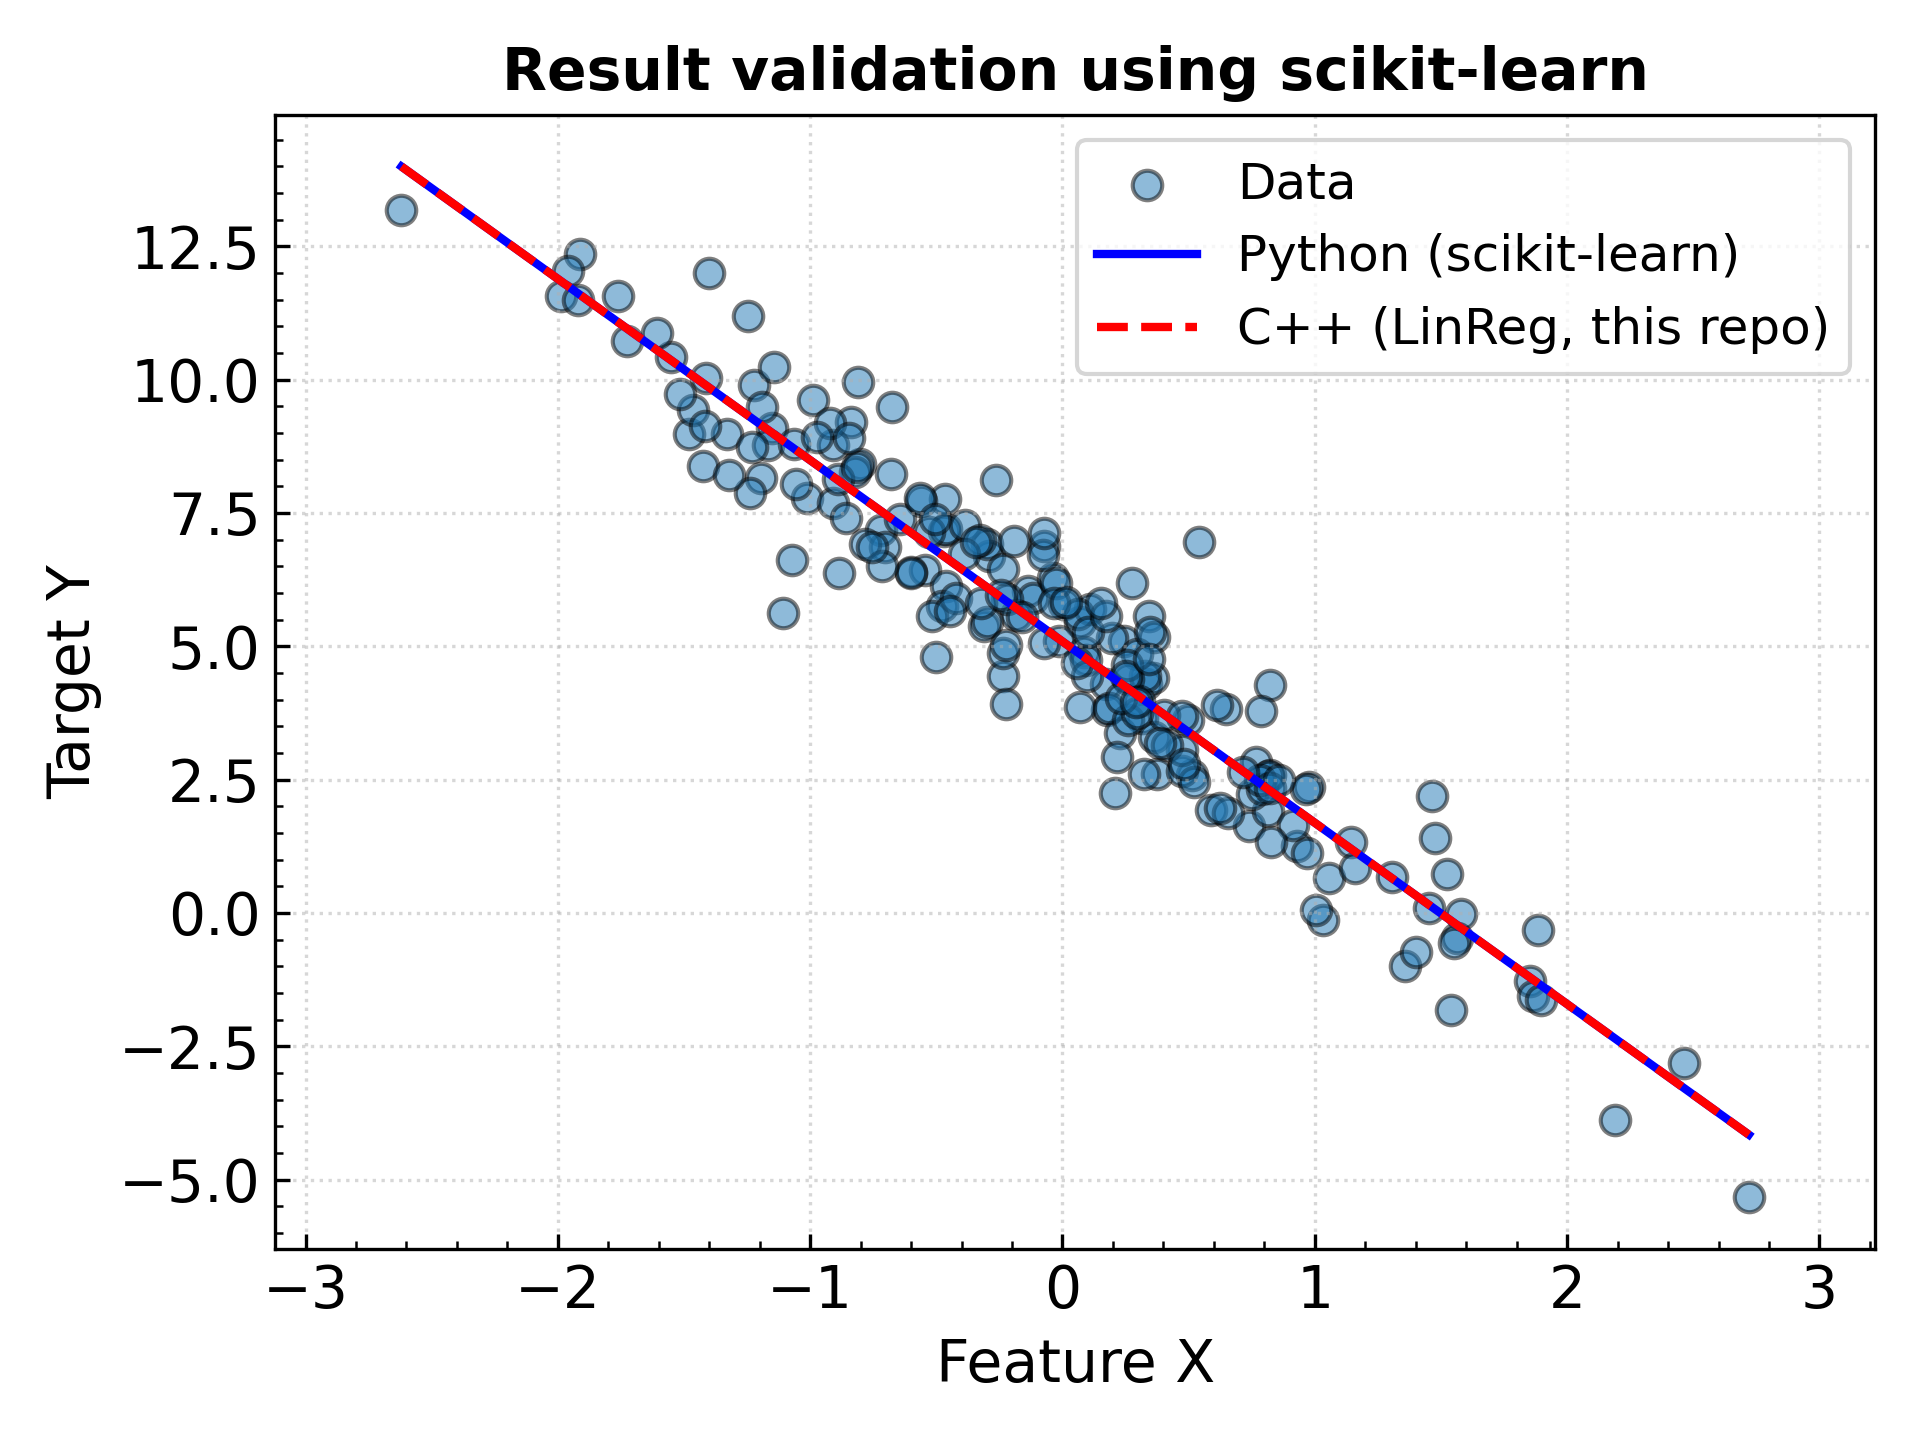
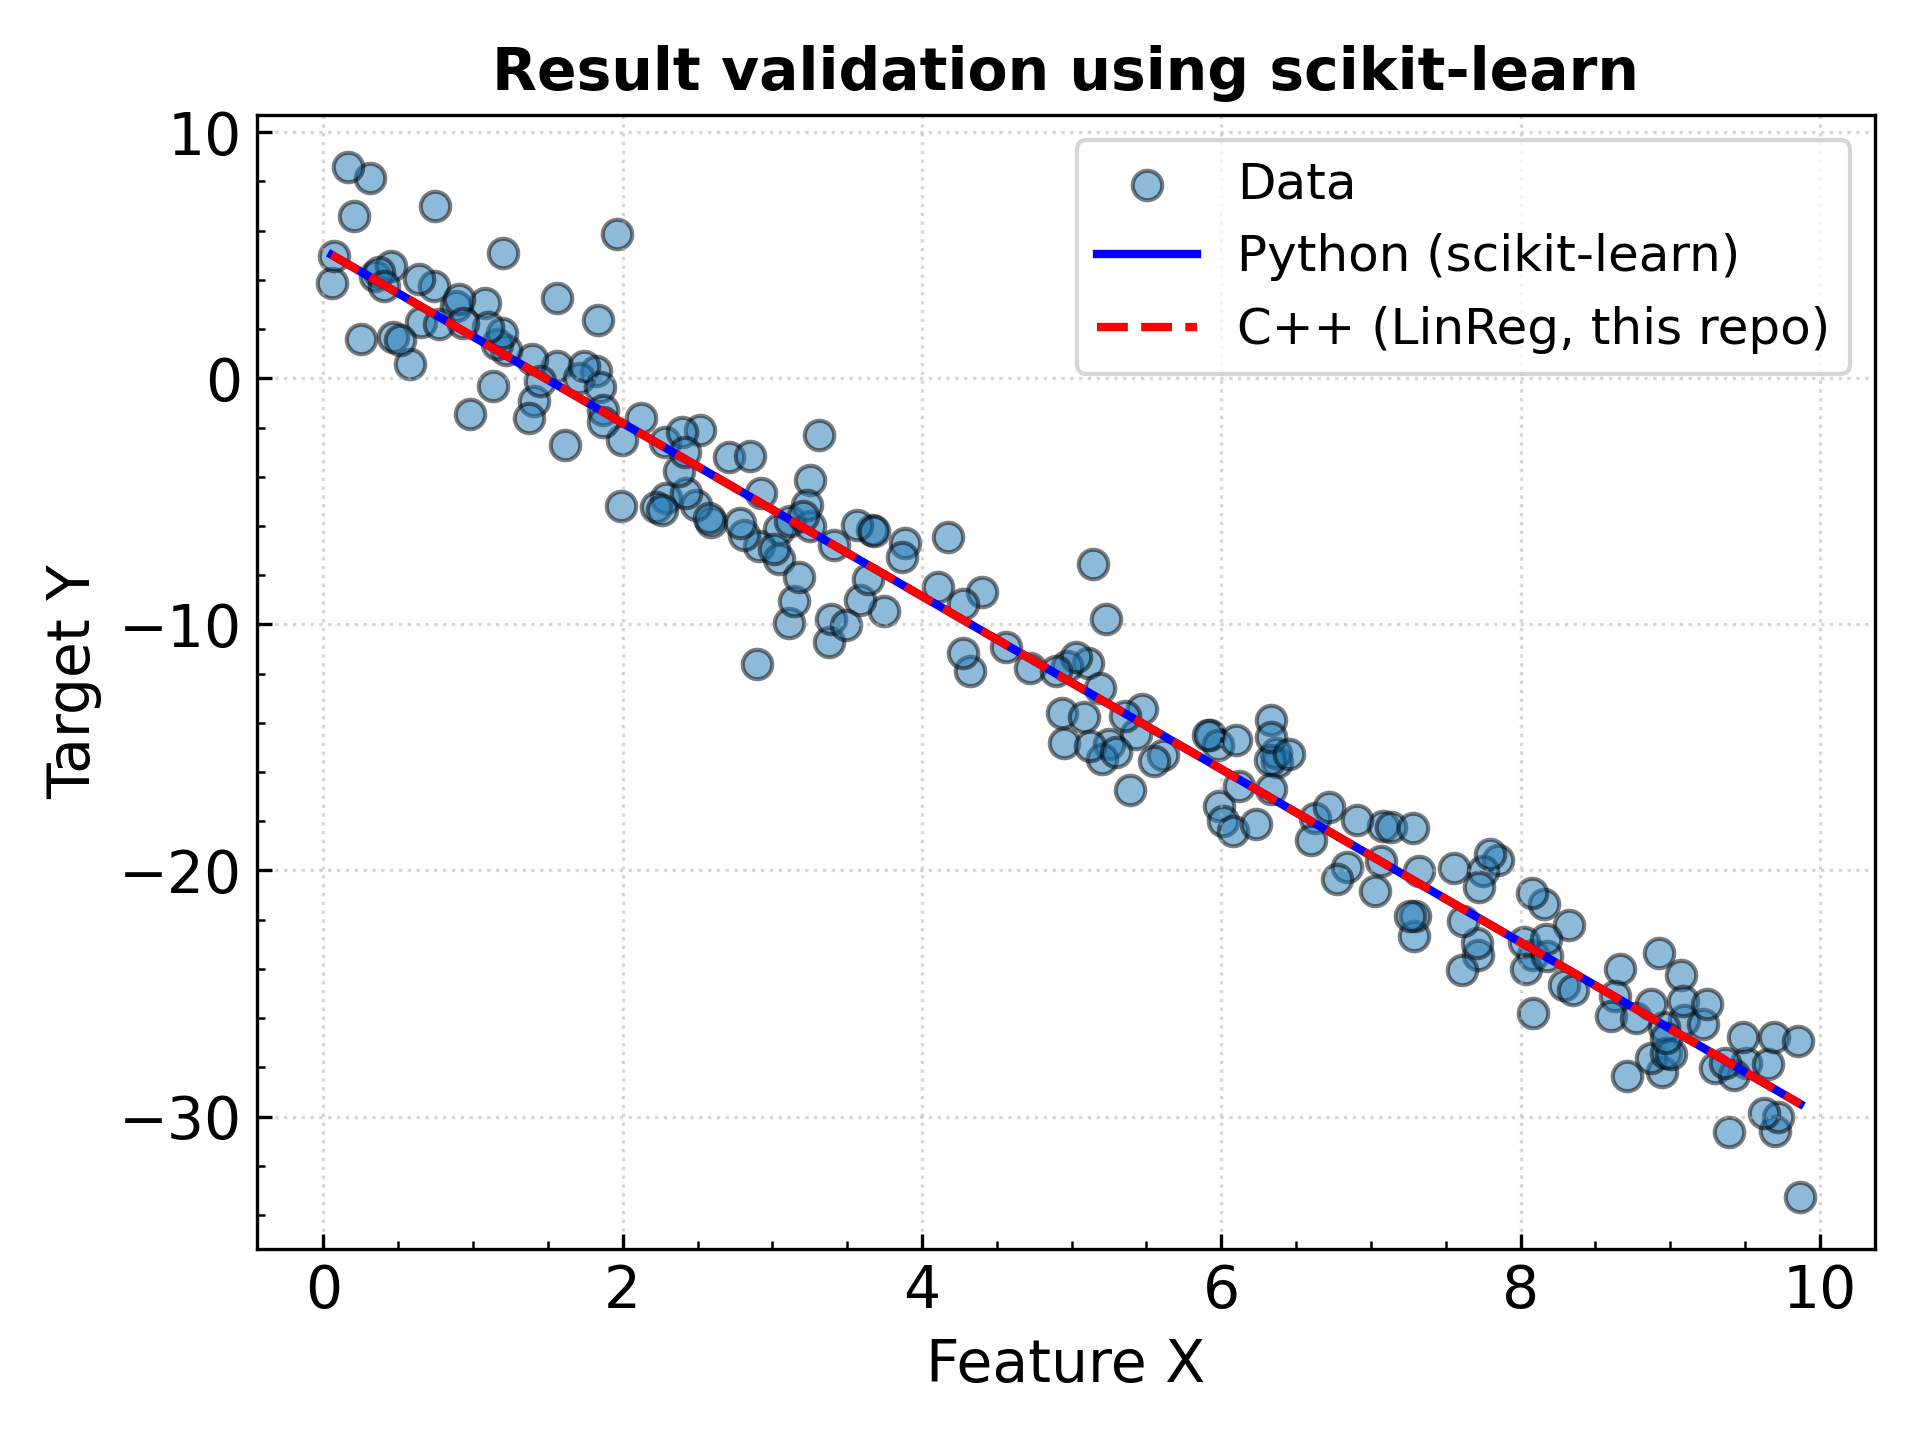
uniform X

diff --git a/validate/gen_1X_solve.py b/validate/gen_1X_solve.py
@@ -13,10 +13,11 @@ true_beta = [-3.5]  # Coefficients for X1, X2, X3
 bias = 5.0
 
 # Generate random features
-X = np.random.randn(n_samples, 1)
+X = np.random.rand(n_samples, 1)
+X = X * 10
 
 # Generate target with noise
-noise = np.random.normal(0, 1.0, size=n_samples)
+noise = np.random.normal(0, 2.0, size=n_samples)
 Y = bias + X @ true_beta + noise # @ is the matrix multiplication operator
 
 # Combine y and X into one matrix for saving

diff --git a/validate/plot_regression_compare.py b/validate/plot_regression_compare.py
@@ -20,8 +20,8 @@ py_weight = model.coef_[0]
 print(f"Python model: y = {py_bias:.3f} + {py_weight:.3f} * x")
 
 # C++ regression results
-cpp_bias = 5.08998     # e.g., beta[0]
-cpp_weight = -3.39913   # e.g., beta[1]
+cpp_bias = 5.2104
+cpp_weight = -3.51561
 
 print(f"C++ model:    y = {cpp_bias:.3f} + {cpp_weight:.3f} * x")
 
